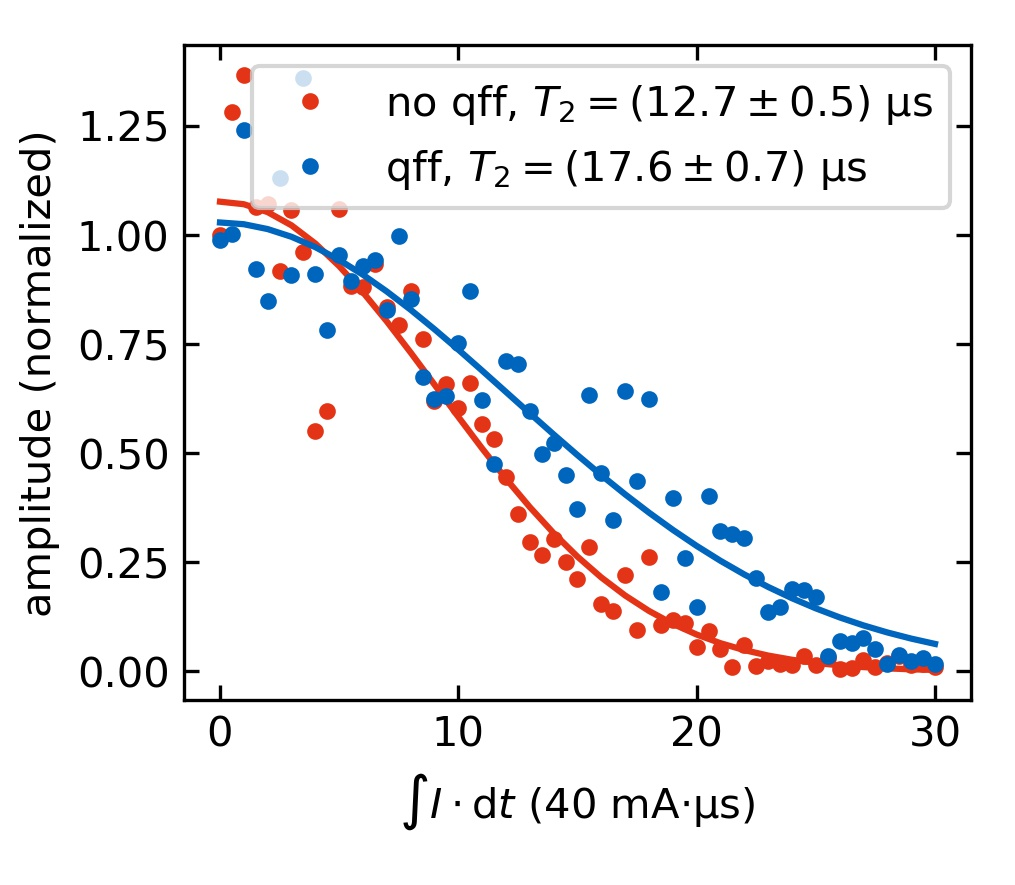
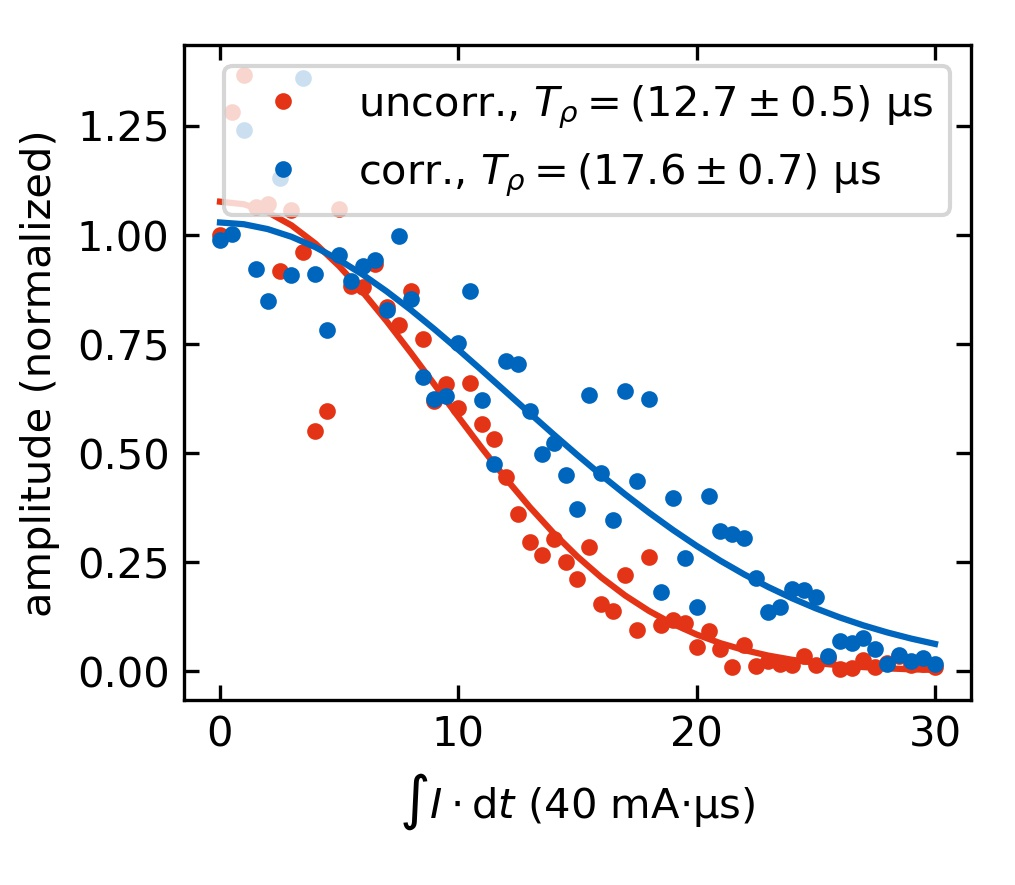
decays_comparison new

Changed region(s): [[0.2138, 0.061, 0.9468, 0.2441], [0.7635, 0.0915, 0.8246, 0.122], [0.6108, 0.0915, 0.6719, 0.122]]

diff --git a/Images/QuantumFeedForwardPaper/figure4/decays_comparison.py b/Images/QuantumFeedForwardPaper/figure4/decays_comparison.py
@@ -75,13 +75,15 @@ def decay_comparison():
     popt_qff, pcov_qff = curve_fit(stretched, xdata=xs, ydata=qff, p0=[20, 1, 1])
     popt_tau, pcov_tau = curve_fit(stretched, xdata=xs, ydata=tau, p0=[20, 1, 1])
     plt.close('all')
-    fig = plt.figure(figsize=(cm_to_inch(8.6), cm_to_inch(7.5)))
+    plt.figure(figsize=(cm_to_inch(8.6), cm_to_inch(7.5)))
     plt.plot(xs, tau, '.',
-             label=r'no qff, $T_2=\left( {:.1f} \pm {:.1f} \right) $ µs'.format(popt_tau[0], np.sqrt(pcov_tau[0, 0])),
+             label=r'uncorr., $T_\rho=\left( {:.1f} \pm {:.1f} \right) $ µs'.format(popt_tau[0],
+                                                                                          np.sqrt(pcov_tau[0, 0])),
              color=tum_color(5))
     plt.plot(xs[::2], stretched(xs, *popt_tau)[::2], color=tum_color(5))
     plt.plot(xs, qff, '.',
-             label=r'qff, $T_2=\left( {:.1f} \pm {:.1f} \right) $ µs'.format(popt_qff[0], np.sqrt(pcov_qff[0, 0])),
+             label=r'corr., $T_\rho=\left( {:.1f} \pm {:.1f} \right) $ µs'.format(popt_qff[0],
+                                                                                        np.sqrt(pcov_qff[0, 0])),
              color=tum_color(0))
     plt.plot(xs[::2], stretched(xs, *popt_qff)[::2], color=tum_color(0))
     plt.xlabel(r'$\int I \cdot \mathrm{d}t$' + ' (40 mA' + r'$\cdot $' + 'µs)')
